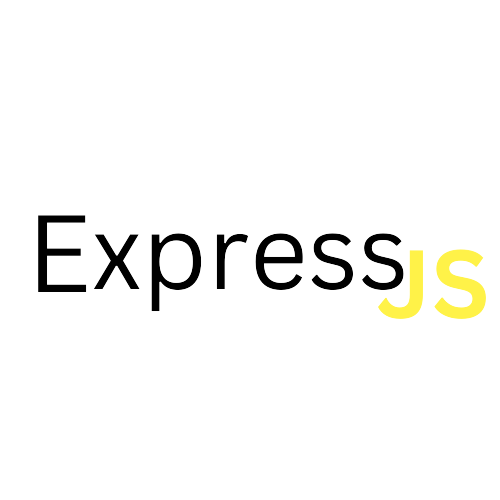
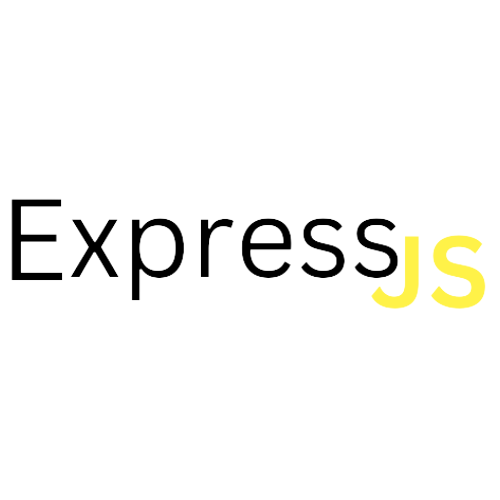
chbani elhabib

Changed region(s): [[0.0, 0.39, 0.99, 0.66]]

diff --git a/index.html b/index.html
@@ -42,10 +42,10 @@
     </p>
     <h3> • Back-End :</h3>
     <p align="left">
-        <img src="image/php.png" alt="php" width="168px" height="127px" style="position: relative;top: -68px;left: -6px"/>
-        <img src="image/laravel.png" alt="laravel" width="94px" height="90px" style="position: relative;top: -85px;left: -5px" />
-        <img src="image/nodejs.png" alt="nodejs" width="139px" height="156px" style="position: relative;top: -55px;left: 1px"/>
-        <img src="image/Expressjs.png" alt="expressjs" width="148px" height="168px" style="position: relative;top: -45px;left: 2px"/>
+        <img src="image/php.png" alt="php" width="87px" height="69px"/>
+        <img src="image/laravel.png" alt="laravel" width="76px" height="66px" />
+        <img src="image/nodejs.png" alt="nodejs" width="106px" height="79px" />
+        <img src="image/Expressjs.png" alt="expressjs" width="108px" height="75px"/>
     </p>
     <h3> • DadaBase  :</h3>
     <p align="left">

diff --git a/README.md b/README.md
@@ -34,10 +34,10 @@
 </p>
 <h3> • Back-End :</h3>
 <p align="left">
-    <img src="image/php.png" alt="php" width="168px" height="127px" style="position: relative;top: -68px;left: -6px"/>
-    <img src="image/laravel.png" alt="laravel" width="94px" height="90px" style="position: relative;top: -85px;left: -5px" />
-    <img src="image/nodejs.png" alt="nodejs" width="139px" height="156px" style="position: relative;top: -55px;left: 1px"/>
-    <img src="image/Expressjs.png" alt="expressjs" width="148px" height="168px" style="position: relative;top: -45px;left: 2px"/>
+    <img src="image/php.png" alt="php" width="87px" height="69px"/>
+    <img src="image/laravel.png" alt="laravel" width="76px" height="66px" />
+    <img src="image/nodejs.png" alt="nodejs" width="106px" height="79px" />
+    <img src="image/Expressjs.png" alt="expressjs" width="108px" height="75px"/>
 </p>
 <h3> • DadaBase  :</h3>
 <p align="left">
